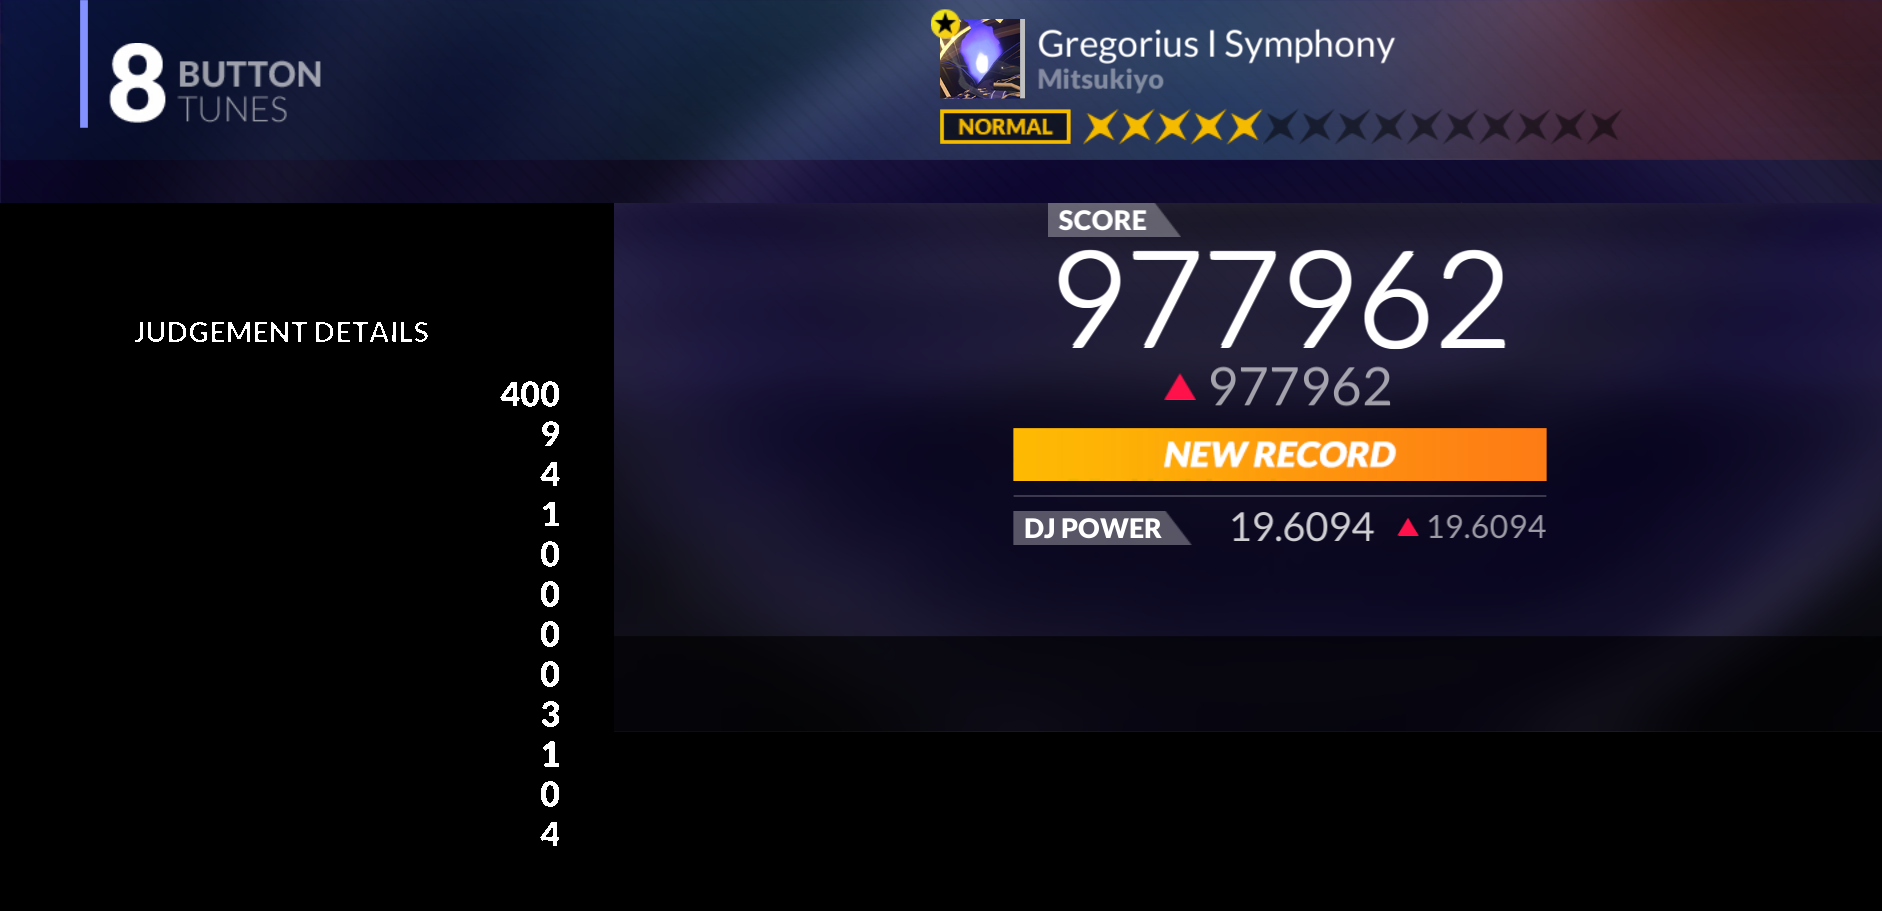
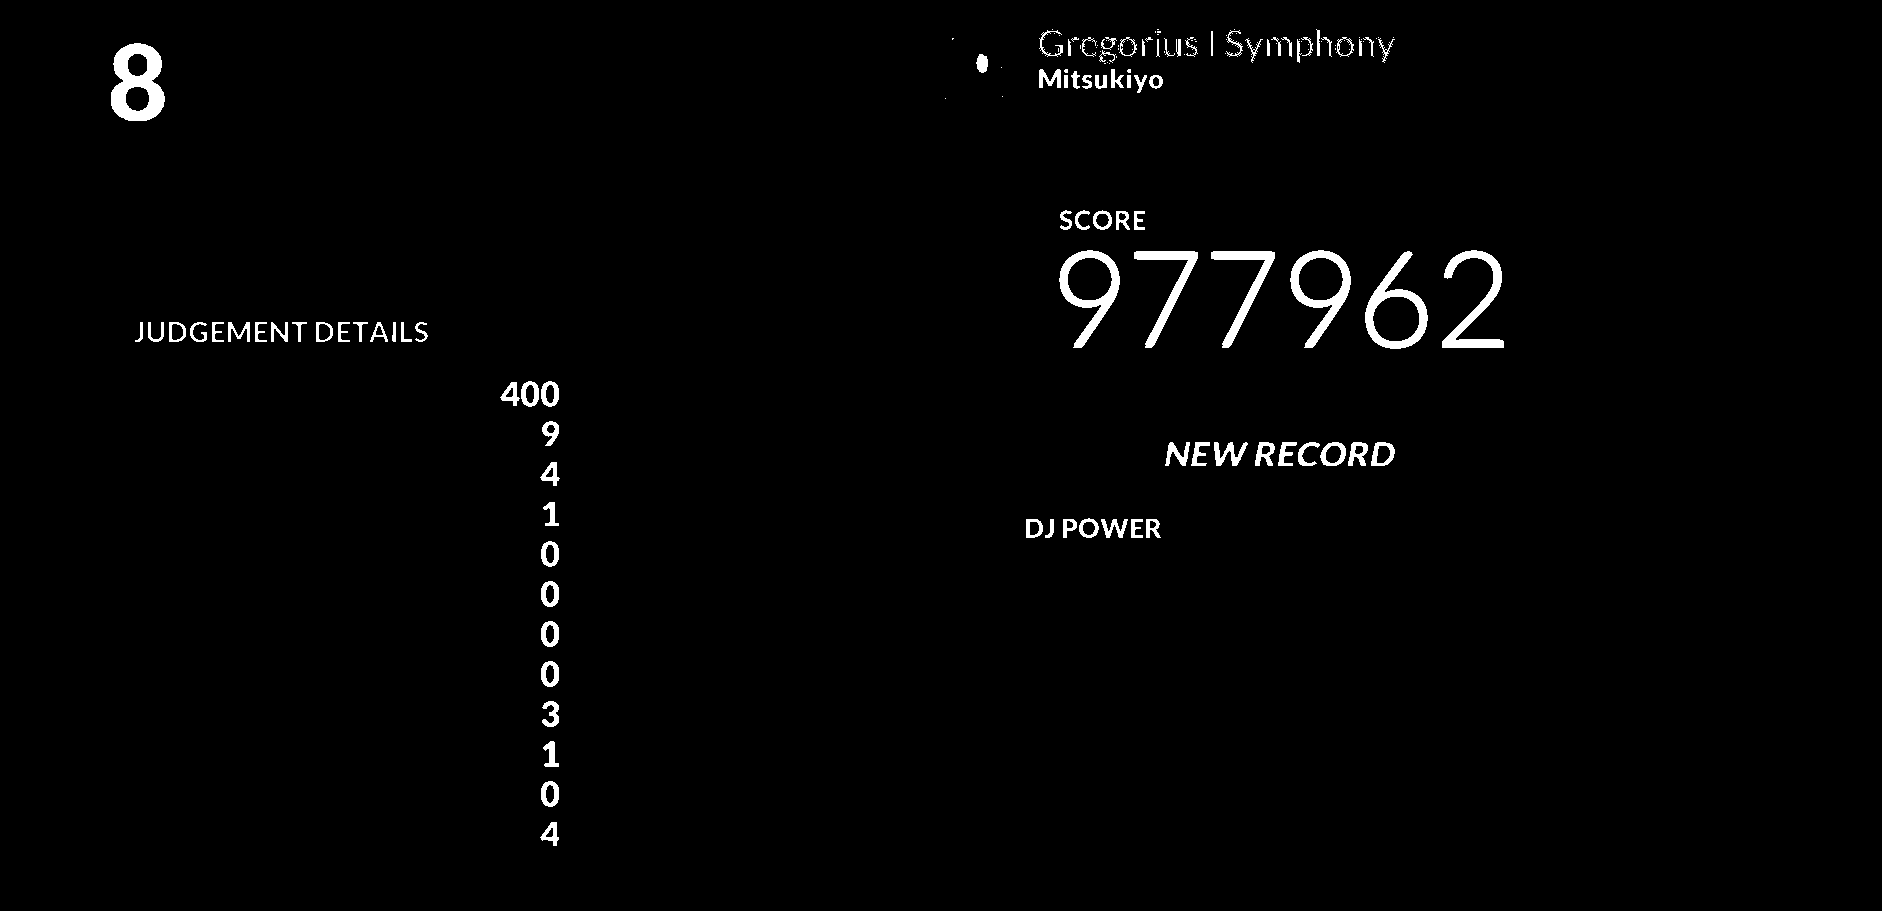
update

diff --git a/purifier.py b/purifier.py
@@ -12,6 +12,19 @@ def check_ratio(image: PImage, ratio):
 def is_close_color(c1: tuple, c2: tuple, tolerance=30):
     return all(abs(a - b) <= tolerance for a, b in zip(c1, c2))
 
+def is_close_hsv(c1, c2, h_tolerance=0.1, s_tolerance=0.2, v_tolerance=0.2):
+    import colorsys
+    h1, s1, v1 = colorsys.rgb_to_hsv(*(x/255 for x in c1))
+    h2, s2, v2 = colorsys.rgb_to_hsv(*(x/255 for x in c2))
+    return (abs(h1 - h2) <= h_tolerance and
+            abs(s1 - s2) <= s_tolerance and
+            abs(v1 - v2) <= v_tolerance)
+
+def is_close_rgb_distance(c1, c2, tolerance=30):
+    import math
+    distance = math.sqrt(sum((a - b) ** 2 for a, b in zip(c1, c2)))
+    return distance <= tolerance
+
 def post_processing(image: PImage, image_name) -> PImage:
 
     yaxis = [7.08, 1.58]
@@ -22,21 +35,27 @@ def post_processing(image: PImage, image_name) -> PImage:
     xaxis_grid = [round(width / x, 0) for x in xaxis]
 
     # split image
-    title_level_button_image = image.crop((0, 0, xaxis_grid[1], yaxis_grid[0]))
+    # title_level_button_image = image.crop((0, 0, xaxis_grid[1], yaxis_grid[0]))
+    button_image = image.crop((0, 0, xaxis_grid[1]//2, yaxis_grid[0]))
+    title_level_image = image.crop((xaxis_grid[1]//2, 0, xaxis_grid[1], yaxis_grid[0]))
     judge_detail_image = image.crop((0, yaxis_grid[0], xaxis_grid[0], yaxis_grid[1]))
     score_image = image.crop((xaxis_grid[0], yaxis_grid[1], xaxis_grid[1], height))
 
-    # post processing judge detail image
+    # post processing
+    post_processing_button(button_image, xaxis_grid=xaxis_grid, yaxis_grid=yaxis_grid)
+    post_processing_title(title_level_image, xaxis_grid=xaxis_grid, yaxis_grid=yaxis_grid)
     post_processing_judge_detail(judge_detail_image, xaxis_grid=xaxis_grid, yaxis_grid=yaxis_grid)
+    post_processing_score(score_image, xaxis_grid=xaxis_grid, yaxis_grid=yaxis_grid)
 
     # merge image
-    new_width = title_level_button_image.width
-    new_height = title_level_button_image.height + judge_detail_image.height
+    new_width = button_image.width + title_level_image.width
+    new_height = button_image.height + judge_detail_image.height
 
     new_image = Image.new("RGB", (new_width, new_height))
-    new_image.paste(title_level_button_image, (0, 0))
-    new_image.paste(judge_detail_image, (0, title_level_button_image.height))
-    new_image.paste(score_image, (judge_detail_image.width, title_level_button_image.height))
+    new_image.paste(button_image, (0, 0))
+    new_image.paste(title_level_image, (int(xaxis_grid[1]//2), 0))
+    new_image.paste(judge_detail_image, (0, button_image.height))
+    new_image.paste(score_image, (judge_detail_image.width, button_image.height))
     new_image.save(f"after/after_{image_name}")
     print(f"after_{image_name}")
     return new_image
@@ -69,7 +88,6 @@ def post_processing_judge_detail(image: PImage, xaxis_grid: list, yaxis_grid: li
             else:
                 r, g, b = pixels[x, y]
                 if not any(is_close_color((r, g, b), tc) for tc in target_colors):
-                    # 대상 색상이 아니면 투명 처리
                     pixels[x, y] = (0, 0, 0)
                 else:
                     pixels[x, y] = (255, 255, 255)
@@ -77,12 +95,55 @@ def post_processing_judge_detail(image: PImage, xaxis_grid: list, yaxis_grid: li
     return image
 
 def post_processing_title(image: PImage, xaxis_grid: list, yaxis_grid: list) -> PImage:
+    pixels = image.load()
+    width, height = image.size
+
+    target_colors = [
+        (255, 255, 255),
+        (122, 136, 139)
+    ]
+
+    for y in range(height):
+        for x in range(width):
+            r, g, b = pixels[x, y]
+            if not any(is_close_color((r, g, b), tc) for tc in target_colors):
+                pixels[x, y] = (0, 0, 0)
+            else:
+                pixels[x, y] = (255, 255, 255)
     return image
 
 def post_processing_button(image: PImage, xaxis_grid: list, yaxis_grid: list) -> PImage:
+    pixels = image.load()
+    width, height = image.size
+
+    target_colors = [
+        (254, 254, 254),
+    ]
+
+    for y in range(height):
+        for x in range(width):
+            r, g, b = pixels[x, y]
+            if not any(is_close_color((r, g, b), tc) for tc in target_colors):
+                pixels[x, y] = (0, 0, 0)
+            else:
+                pixels[x, y] = (255, 255, 255)
     return image
 
 def post_processing_score(image: PImage, xaxis_grid: list, yaxis_grid: list) -> PImage:
+    pixels = image.load()
+    width, height = image.size
+
+    target_colors = [
+        (255, 255, 255),
+    ]
+
+    for y in range(height):
+        for x in range(width):
+            r, g, b = pixels[x, y]
+            if not any(is_close_color((r, g, b), tc) for tc in target_colors):
+                pixels[x, y] = (0, 0, 0)
+            else:
+                pixels[x, y] = (255, 255, 255)
     return image
 
 
